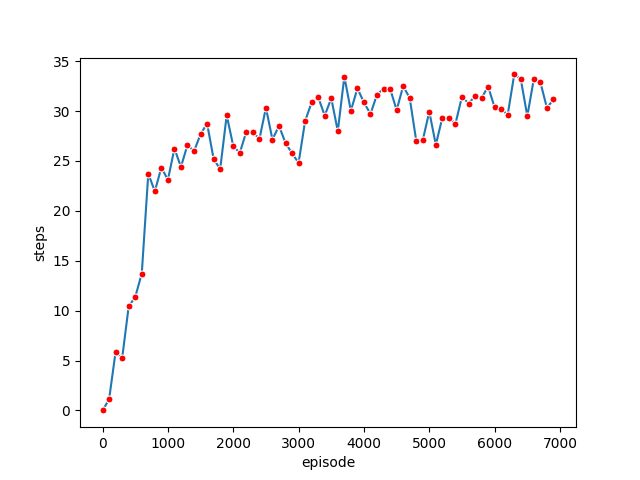
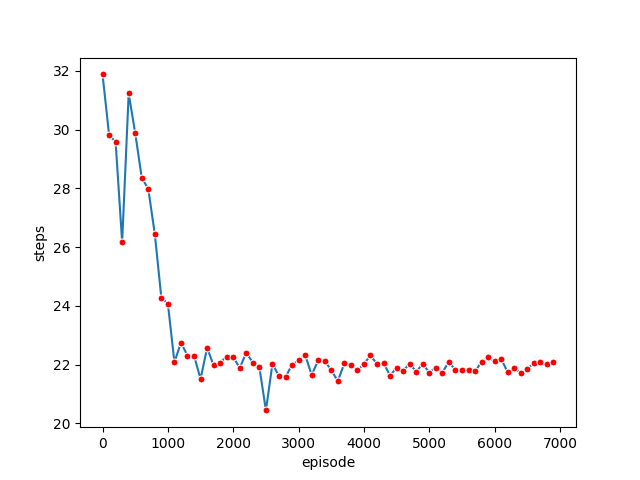
Finished everything, seems good

diff --git a/qlearning.py b/qlearning.py
@@ -1,23 +1,27 @@
-import random
 import numpy as np
 import pandas
+import random
 import seaborn
 from matplotlib import pyplot
 
 import config
 from environment import Environment, Action
 
+
 def linearize_pos(st, m):
     return m * st[0] + st[1]
+
 
 def get_optimal_action(q_tab, st, m):
     st = linearize_pos(st, m)
     return Action(np.argmax(q_tab[st]))
 
+
 def get_action_eps_greedy_policy(env: Environment, q_tab, st, eps):
     prob = random.uniform(0, 1)
     # if in exploitation return max index, else return random action if exploring
     return Action(np.argmax(q_tab[st])) if prob > eps else env.get_random_action()
+
 
 def train(num_episodes, max_steps, lr, gamma, eps_min, eps_max, eps_dec_rate, env: Environment):
     avg_returns = []
@@ -54,6 +58,7 @@ def train(num_episodes, max_steps, lr, gamma, eps_min, eps_max, eps_dec_rate, en
             st = new_st
     return q_tab, avg_returns, avg_steps
 
+
 def evaluate(num_episodes, max_steps, env: Environment, q_tab):
     ep_rew_lst = []
     steps_lst = []
@@ -83,6 +88,7 @@ def evaluate(num_episodes, max_steps, env: Environment, q_tab):
     print(f'TEST Mean reward: {np.mean(ep_rew_lst):.2f}')
     print(f'TEST STD reward: {np.std(ep_rew_lst):.2f}')
     print(f'TEST Mean steps: {np.mean(steps_lst):.2f}')
+
 
 def line_plot(data, name, show):
     pyplot.figure(f'Average {name} per episode: {np.mean(data):.2f}')

diff --git a/main.py b/main.py
@@ -8,19 +8,19 @@ from environment import Environment, Quit
 environment = Environment(f'maps/map2.txt')
 running = True
 
+
 def render_env():
     while running:
         environment.render(config.FPS)
 
+
 if __name__ == '__main__':
     try:
         q_tab, avg_returns, avg_steps = qlearning.train(7000, 100, 0.05,
-                        0.95, 1.0, 0.005, 0.001, environment)
+                                                        0.95, 0.005, 1, 0.001, environment)
         qlearning.evaluate(100, 100, environment, q_tab)
         qlearning.line_plot(avg_returns, "return", True)
         qlearning.line_plot(avg_steps, "steps", True)
-
-        print(q_tab)
 
         environment.reset()
         st = environment.get_agent_position()
@@ -28,7 +28,7 @@ if __name__ == '__main__':
 
         Thread(target=render_env).start()
 
-        time.sleep(config.SLEEP_TIME)
+        time.sleep(1)  # always sleep for one second here
         while True:
             action = qlearning.get_optimal_action(q_tab, st, m)
             st, _, done = environment.step(action)

diff --git a/tiles.py b/tiles.py
@@ -11,8 +11,7 @@ class Tile(Artifact):
 
 class Grass(Tile):
     def reward(self):
-        return 0
-        #return (-5 + 1000) / 2000
+        return -5
 
     @staticmethod
     def kind():
@@ -21,8 +20,7 @@ class Grass(Tile):
 
 class Mud(Tile):
     def reward(self):
-        return 0
-        #return (-50 + 1000) / 2000
+        return -50
 
     @staticmethod
     def kind():
@@ -31,8 +29,7 @@ class Mud(Tile):
 
 class Hole(Tile):
     def reward(self):
-        return 0
-        #return (-1000 + 1000) / 2000
+        return -1000
 
     @staticmethod
     def kind():

diff --git a/environment.py b/environment.py
@@ -135,7 +135,5 @@ class Environment:
         reward = self.field_map[agent_position[0]][agent_position[1]].reward()
         done = (agent_position == self.artifacts_map[Goal.kind()].get_position() or
                 self.field_map[agent_position[0]][agent_position[1]].kind() == Hole.kind())
-        if done and agent_position == self.artifacts_map[Goal.kind()].get_position():
-            reward = 1
 
         return agent_position, reward, done
